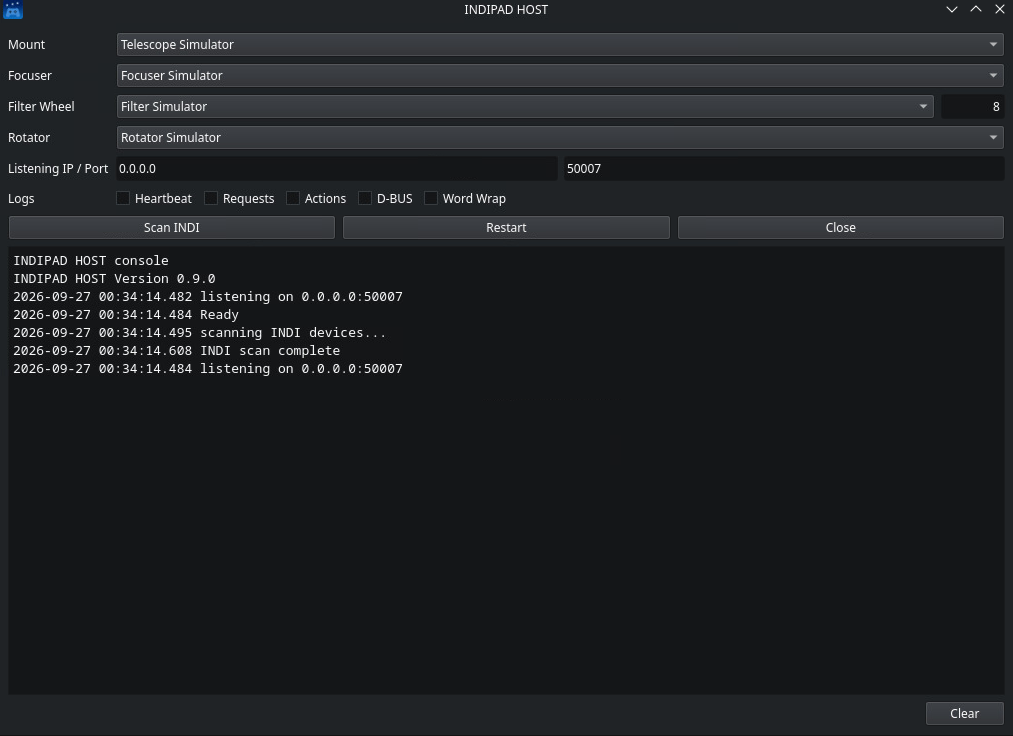
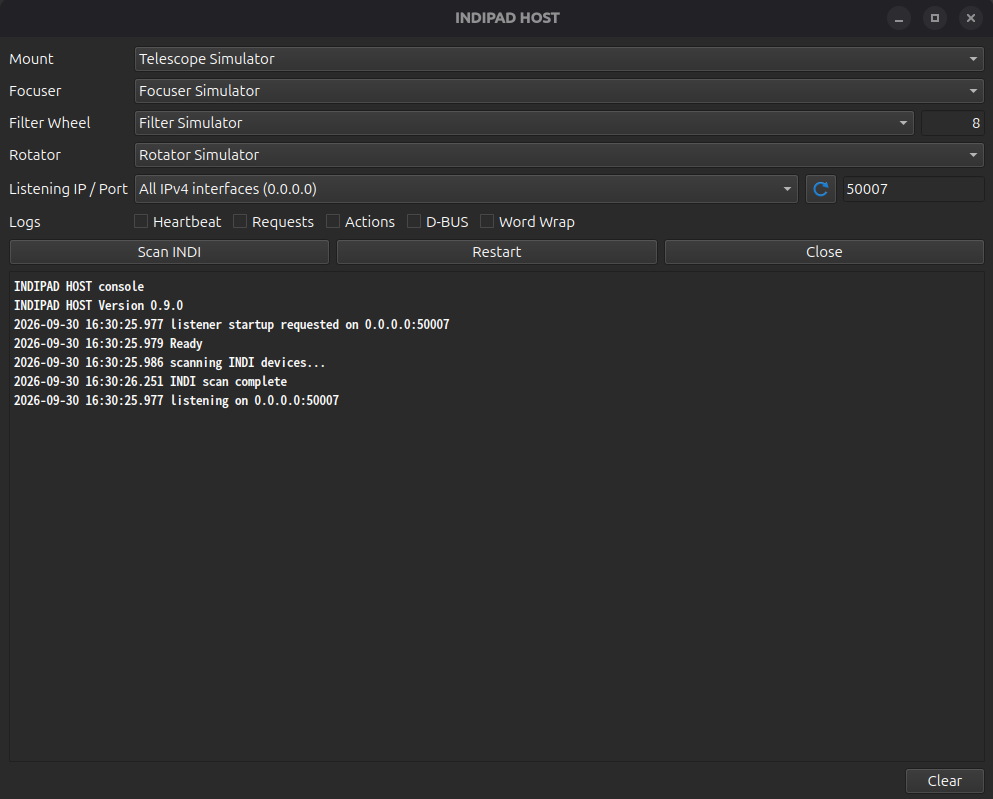
docs: update README to clarify IPv4 and IPv6 address selection for listening IP/Port

Changed region(s): [[0.0, 0.0, 0.999, 0.5312], [0.9053, 0.9375, 0.999, 1.0]]

diff --git a/README.ja.md b/README.ja.md
@@ -290,14 +290,14 @@ RemoteINDIPAD receiverはRemoteINDIPAD senderからNetwork経由で受信した"
 | Focuser | 利用可能な Focuser の INDIドライバー名。複数ある場合はリストから選択する。 |
 | Filter Wheel | 利用可能な Filter Wheel の INDIドライバー名。複数ある場合はリストから選択する。INDIドライバー名の後ろの数値は Filter Wheel のスロット数 |
 | Rotator | 利用可能な Rotator の INDIドライバー名。複数ある場合はリストから選択する。 |
-| Listening IP / Port | 接続用の Network Interfaceの IP アドレスとポート番号。IPアドレスは0.0.0.0がデフォルトですべてのNetwork Interfaceを使用する。ポート番号のデフォルトは50007。 |
+| Listening IP / Port | 待受に使用するIPv4またはIPv6アドレスを選択する。リストにはlocalhost、検出されたローカルIPアドレス、各IPバージョンの「すべてのインターフェース」が表示される。bindできないアドレスはUnavailableとして表示され、選択できない。デフォルトはIPv4のすべてのインターフェース（`0.0.0.0`）。ポート番号のデフォルトは50007。右側の丸矢印ボタンでネットワークアドレスを再スキャンする。 |
 | Logs - Heartbeat | 受信したHeartbeatを Console に表示する。 |
 | Logs - Requests | 送信側から受信した JSON パケットを Console に表示する。 |
 | Logs - Actions | `action`、`dispatch`、`executed` で始まる操作ログを Console に表示する。 |
 | Logs - D-BUS | D-BUS の呼び出し内容と返却結果を Console に表示する。 |
 | Logs - Word Wrap | コンソールのログをウィンドウ幅に合わせて折り返す。 |
 | Scan INDI | 利用可能なINDIドライバーをスキャンし各ドライバーのリストに設定する。 |
-| Restart | 接続待ちの再スタート。IP / Port を変更した場合に使用する。 |
+| Restart | 接続待ちを再スタートする。選択したアドレスまたはポートを変更した場合に使用する。再スタート直前にもアドレスを再検査する。 |
 | Close | RemoteINDIPAD receiver を閉じる |
 | INDIPAD console | 操作や通信の状態を表示する。 |
 | Clear | コンソールをクリアする。 |

diff --git a/README.md b/README.md
@@ -287,14 +287,14 @@ RemoteINDIPAD receiver converts the "Actions" received from RemoteINDIPAD sender
 | Focuser | The name of an available focuser INDI driver. Select one from the list when multiple drivers are available. |
 | Filter Wheel | The name of an available filter wheel INDI driver. Select one from the list when multiple drivers are available. The number after the INDI driver name is the number of filter wheel slots. |
 | Rotator | The name of an available rotator INDI driver. Select one from the list when multiple drivers are available. |
-| Listening IP / Port | The IP address and port of the network interface used for connections. The default IP address is 0.0.0.0, which uses all network interfaces. The default port is 50007. |
+| Listening IP / Port | Select an IPv4 or IPv6 address to listen on. The list includes localhost, detected local addresses, and an all-interfaces address for each IP version. Addresses that cannot be bound are shown as unavailable and disabled. The default is all IPv4 interfaces (`0.0.0.0`); the default port is 50007. Use the circular-arrow button to rescan network addresses. |
 | Logs - Heartbeat | Display received heartbeats in the console. |
 | Logs - Requests | Display JSON packets received from the sender in the console. |
 | Logs - Actions | Display operation logs beginning with `action`, `dispatch`, or `executed` in the console. |
 | Logs - D-BUS | Display D-BUS calls and returned results in the console. |
 | Logs - Word Wrap | Wrap console log lines to the window width. |
 | Scan INDI | Scan for available INDI drivers and populate each driver list. |
-| Restart | Restart the listener. Use this after changing the IP address or port. |
+| Restart | Restart the listener. Use this after changing the selected address or port. The selected address is checked again before restarting. |
 | Close | Close RemoteINDIPAD receiver. |
 | INDIPAD console | Display operation and communication status. |
 | Clear | Clear the console. |
